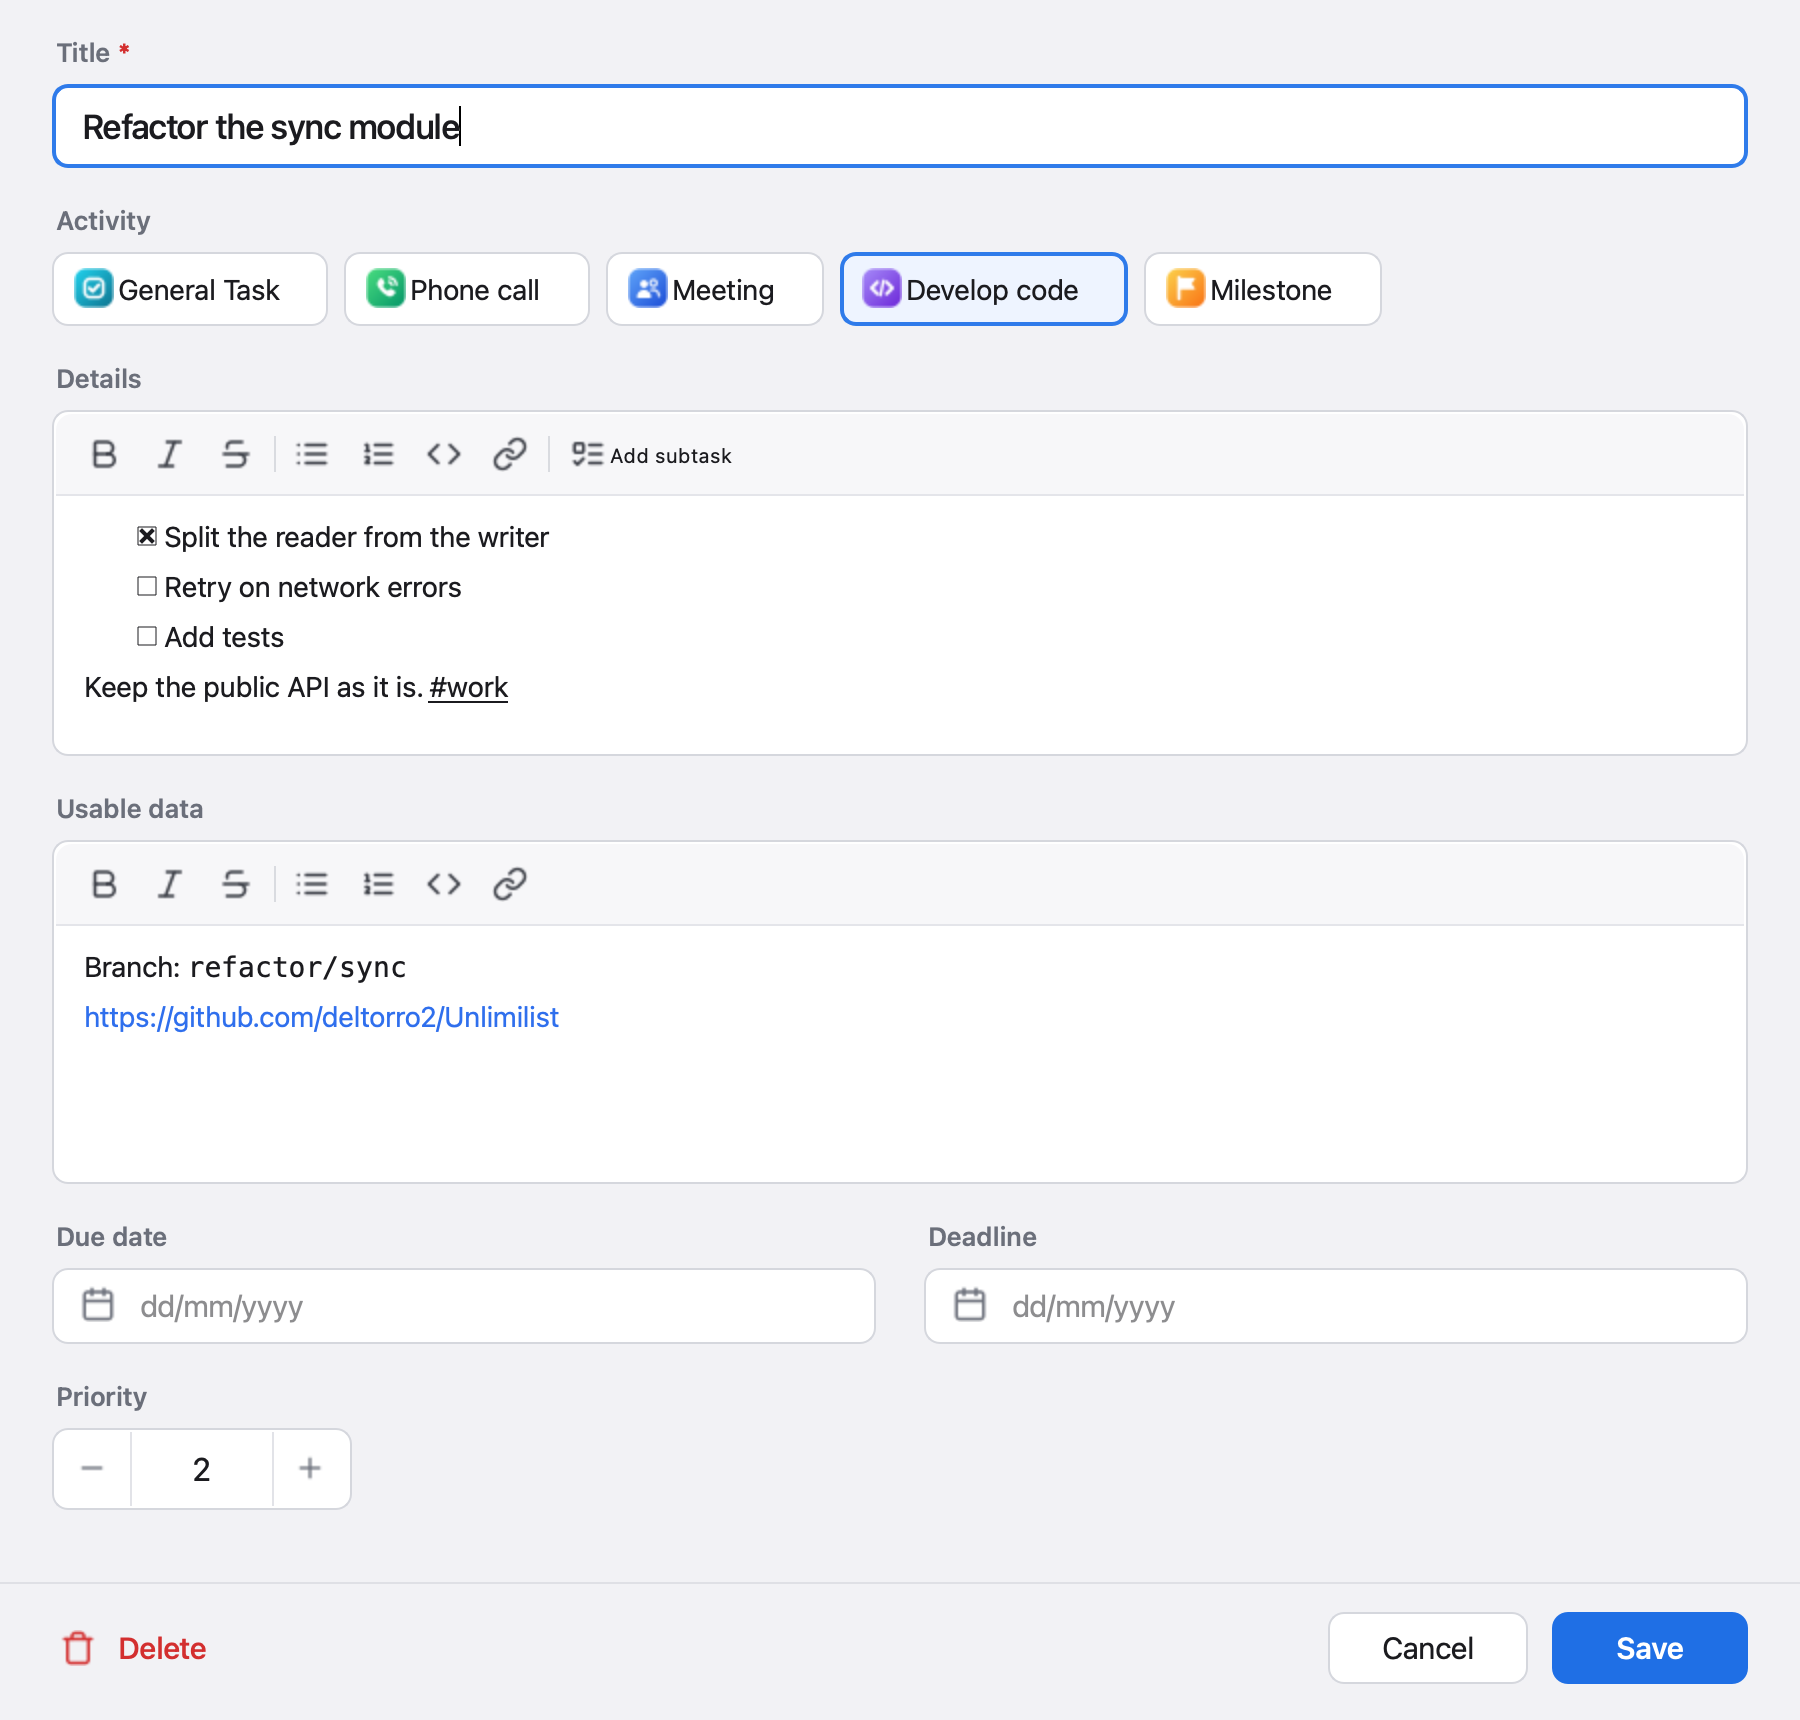
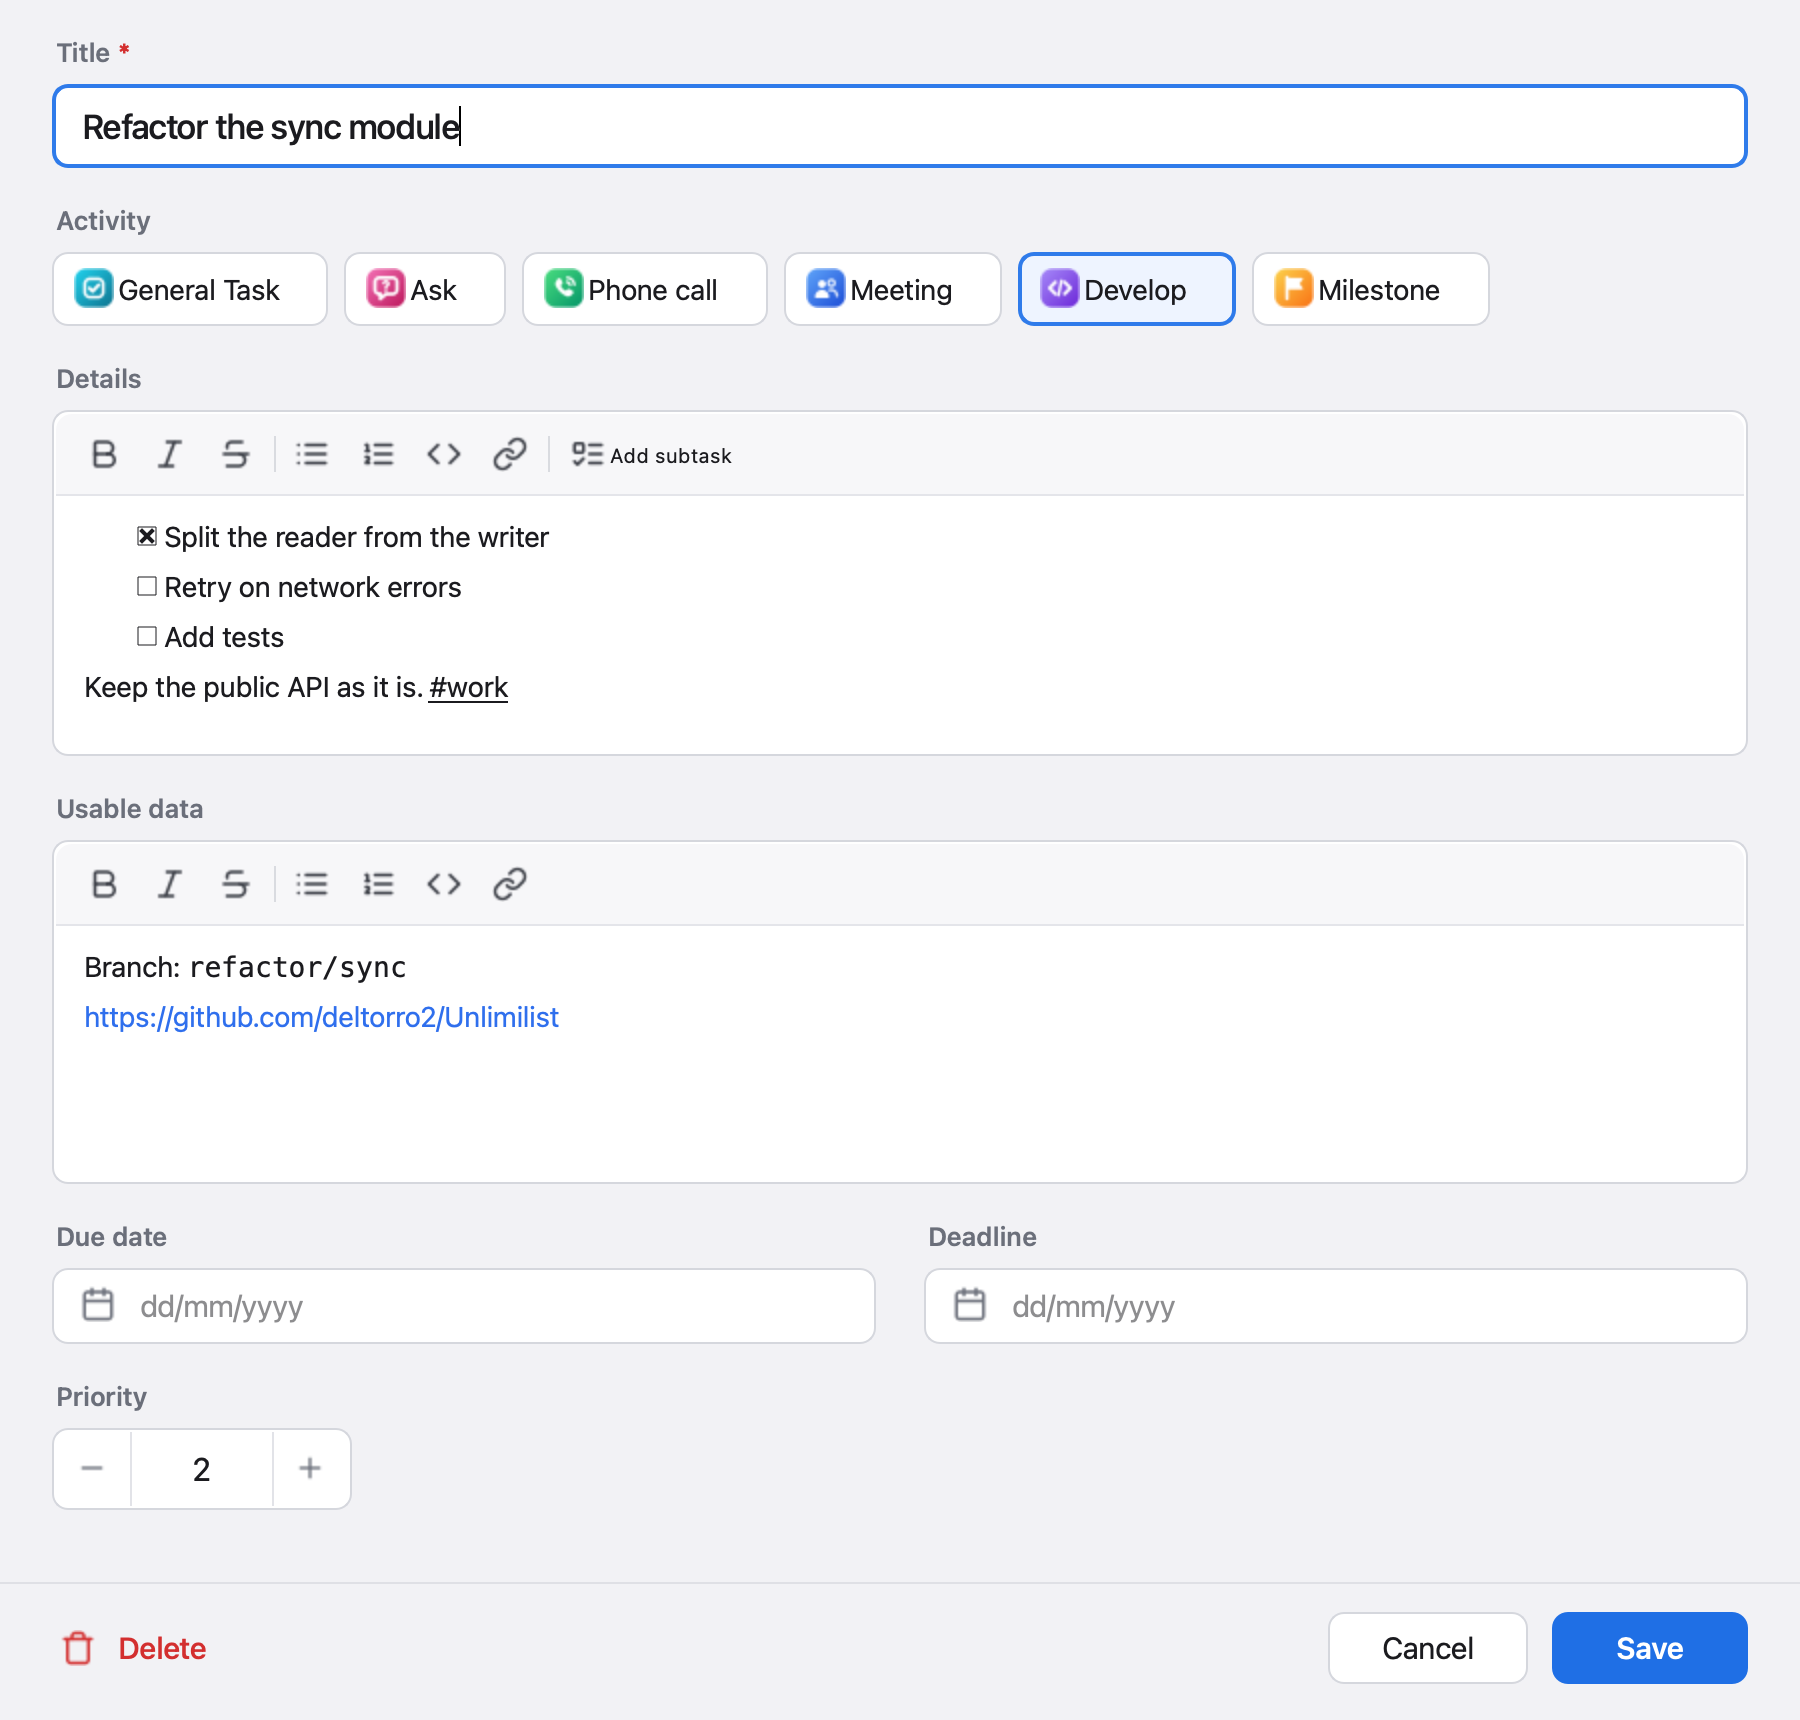
Add the Ask Activity; call Develop code "Develop"
Ask is for getting an answer or information from someone. Its badge is a
speech bubble with a question mark, in pink so it isn't confused with the
blue Meeting badge. It comes right after General Task in the picker and is
stored as `activity: ask`.

Develop code is now labelled "Develop". The badge is unchanged, and the
stored value stays `develop-code`, so existing Task files load as before.

The test data and the README Board each gain an Ask Task; screenshots redrawn.

Changed region(s): [[0.1867, 0.1541, 0.8089, 0.1849]]

diff --git a/tests/test_ui.py b/tests/test_ui.py
@@ -129,6 +129,32 @@ def test_a_new_task_starts_as_a_general_task_and_another_activity_can_be_picked(
     assert board.lane(Stage.INBOX, LaneKind.SOMEDAY)[0].activity == Activity.PHONE_CALL
 
 
+def test_the_activity_picker_lists_ask_after_general_task_and_calls_develop_code_develop(qtbot, board):
+    dialog = TaskDialog(board)
+    qtbot.addWidget(dialog)
+
+    assert [button.text() for button in dialog.activity_buttons.values()] == [
+        "General Task",
+        "Ask",
+        "Phone call",
+        "Meeting",
+        "Develop",
+        "Milestone",
+    ]
+    assert [b.x() for b in dialog.activity_buttons.values()] == sorted(b.x() for b in dialog.activity_buttons.values())
+
+
+def test_an_ask_card_shows_the_ask_badge(window, board):
+    board.add_task("Ask Dana about the invoice", activity=Activity.ASK)
+    window.board_view.refresh()
+
+    card = column_cards(window, Stage.INBOX)[0]
+
+    assert card.activity_badge.property("activity") == "ask"
+    assert card.activity_badge.toolTip() == "Ask"
+    assert not card.activity_badge.pixmap().isNull()
+
+
 def test_editing_shows_the_current_activity(qtbot, board):
     task = board.add_task("Standup", activity=Activity.MEETING)
 

diff --git a/scripts/readme_screenshots.py b/scripts/readme_screenshots.py
@@ -24,7 +24,8 @@ from unlimilist.ui.task_dialog import TaskDialog  # noqa: E402
 
 TODAY = date(2026, 10, 13)
 SCALE = 2  # drawn at Retina resolution, so the images stay sharp on GitHub
-CALL, MEETING, CODE, MILESTONE = Activity.PHONE_CALL, Activity.MEETING, Activity.DEVELOP_CODE, Activity.MILESTONE
+ASK, CALL, MEETING = Activity.ASK, Activity.PHONE_CALL, Activity.MEETING
+CODE, MILESTONE = Activity.DEVELOP_CODE, Activity.MILESTONE
 
 
 def days(n: int) -> date:
@@ -51,7 +52,7 @@ def synthetic_board() -> tuple[Board, str]:
         usable_data="Branch: `refactor/sync`\n\nhttps://github.com/deltorro2/Unlimilist",
     )
     add("Call grandma", activity=CALL, details="Ask about the family recipes #family")
-    add("Book club evening", activity=MEETING, details="Bring the second volume #reading")
+    add("Ask Sam when book club meets", activity=ASK, details="Bring the second volume #reading")
     add("Read Designing Data-Intensive Applications", details="Chapters 5 to 7 #reading #work")
 
     # Inbox, Time-limited: one Task for each Urgency.

diff --git a/scripts/make_test_tasks.py b/scripts/make_test_tasks.py
@@ -23,8 +23,9 @@ from unlimilist.domain import Activity, Stage, Task  # noqa: E402
 from unlimilist.store import MarkdownTaskStore  # noqa: E402
 
 PREFIX = "manual-test-"
-GENERAL, CALL, MEETING, CODE, MILESTONE = (
+GENERAL, ASK, CALL, MEETING, CODE, MILESTONE = (
     Activity.GENERAL_TASK,
+    Activity.ASK,
     Activity.PHONE_CALL,
     Activity.MEETING,
     Activity.DEVELOP_CODE,
@@ -68,7 +69,7 @@ def test_tasks(today: date) -> list[dict]:
         ),
         dict(title="Call grandma", activity=CALL, details="Ask about the family recipes #family"),
         dict(title=LONG_TITLE, activity=MEETING, details="A long title wraps under the Tag chip. #work #client-x #reports"),
-        dict(title="Read a book", activity=GENERAL, details="A Task with no Tags shows no chip."),
+        dict(title="Ask Dana about the invoice", activity=ASK, details="An Ask Task: pink badge. No Tags, so no chip."),
         dict(
             title="Long Tag cut in the chip",
             activity=GENERAL,

diff --git a/tests/test_board.py b/tests/test_board.py
@@ -594,3 +594,13 @@ def test_has_task_is_false_once_the_task_is_deleted():
     board.delete_task(task.id)
 
     assert not board.has_task(task.id)
+
+
+def test_an_ask_task_is_saved_as_ask_and_loads_back(tmp_path):
+    from unlimilist.store import MarkdownTaskStore
+
+    board = Board(MarkdownTaskStore(tmp_path), clock=FakeClock())
+    task = board.add_task("Ask Dana about the invoice", activity=Activity.ASK)
+
+    assert "activity: ask\n" in (tmp_path / f"{task.id}.md").read_text()
+    assert Board(MarkdownTaskStore(tmp_path), clock=FakeClock()).task(task.id).activity == Activity.ASK

diff --git a/src/unlimilist/ui/icons.py b/src/unlimilist/ui/icons.py
@@ -12,9 +12,10 @@ _APP_ICON = _ASSETS / "app_icon.png"
 
 ACTIVITY_LABELS = {
     Activity.GENERAL_TASK: "General Task",
+    Activity.ASK: "Ask",
     Activity.PHONE_CALL: "Phone call",
     Activity.MEETING: "Meeting",
-    Activity.DEVELOP_CODE: "Develop code",
+    Activity.DEVELOP_CODE: "Develop",
     Activity.MILESTONE: "Milestone",
 }
 

diff --git a/src/unlimilist/domain.py b/src/unlimilist/domain.py
@@ -22,6 +22,7 @@ class Activity(Enum):
     """The kind of work a Task represents. The value names its icon and is what the Task file stores."""
 
     GENERAL_TASK = "general-task"
+    ASK = "ask"
     PHONE_CALL = "phone-call"
     MEETING = "meeting"
     DEVELOP_CODE = "develop-code"

diff --git a/README.md b/README.md
@@ -34,7 +34,7 @@ Jira, Todoist and TickTick do a thousand things you'll never use. Trello does to
 - 🧾 **Context lives with the Task.** Rich-text Details for what the Task is, and Usable data for links, numbers and code snippets.
 - ✅ **Subtasks that mean it.** Checklists in the Details; a Task can't reach Done while any are open.
 - 🏷 **Tags with instant filtering.** Write `#client-x` anywhere in the Details; pick Tags in the sidebar to see just those Tasks. Autocomplete suggests the Tags you already use.
-- 📞 **Activities at a glance.** A badge on each card tells a call from a meeting, a coding session or a milestone.
+- 📞 **Activities at a glance.** A badge on each card tells a call from a meeting, a question to ask, a coding session or a milestone.
 - 🧹 **Tidy up fast.** Select several Tasks and delete them in one go, or duplicate a Task to reuse it. Deleted files are kept, so nothing is lost by mistake.
 - 🔒 **Your data stays yours.** Every Task is a plain Markdown file on your Mac that you can read, back up or edit in any editor.
 

diff --git a/CONTEXT.md b/CONTEXT.md
@@ -47,7 +47,7 @@ Optional formatted text that describes what the Task is.
 _Avoid_: Description, notes
 
 **Activity**:
-The kind of work a Task represents: General Task, Phone call, Meeting, Develop code or Milestone. Every Task has exactly one, and a new Task starts as General Task. It describes the work only and does not affect where the Task sits on the Board.
+The kind of work a Task represents: General Task, Ask, Phone call, Meeting, Develop or Milestone. Ask means getting an answer or information from someone, such as a question to a colleague, a client or support. Every Task has exactly one, and a new Task starts as General Task. It describes the work only and does not affect where the Task sits on the Board.
 _Avoid_: Type, category, kind
 
 **Subtask**:
